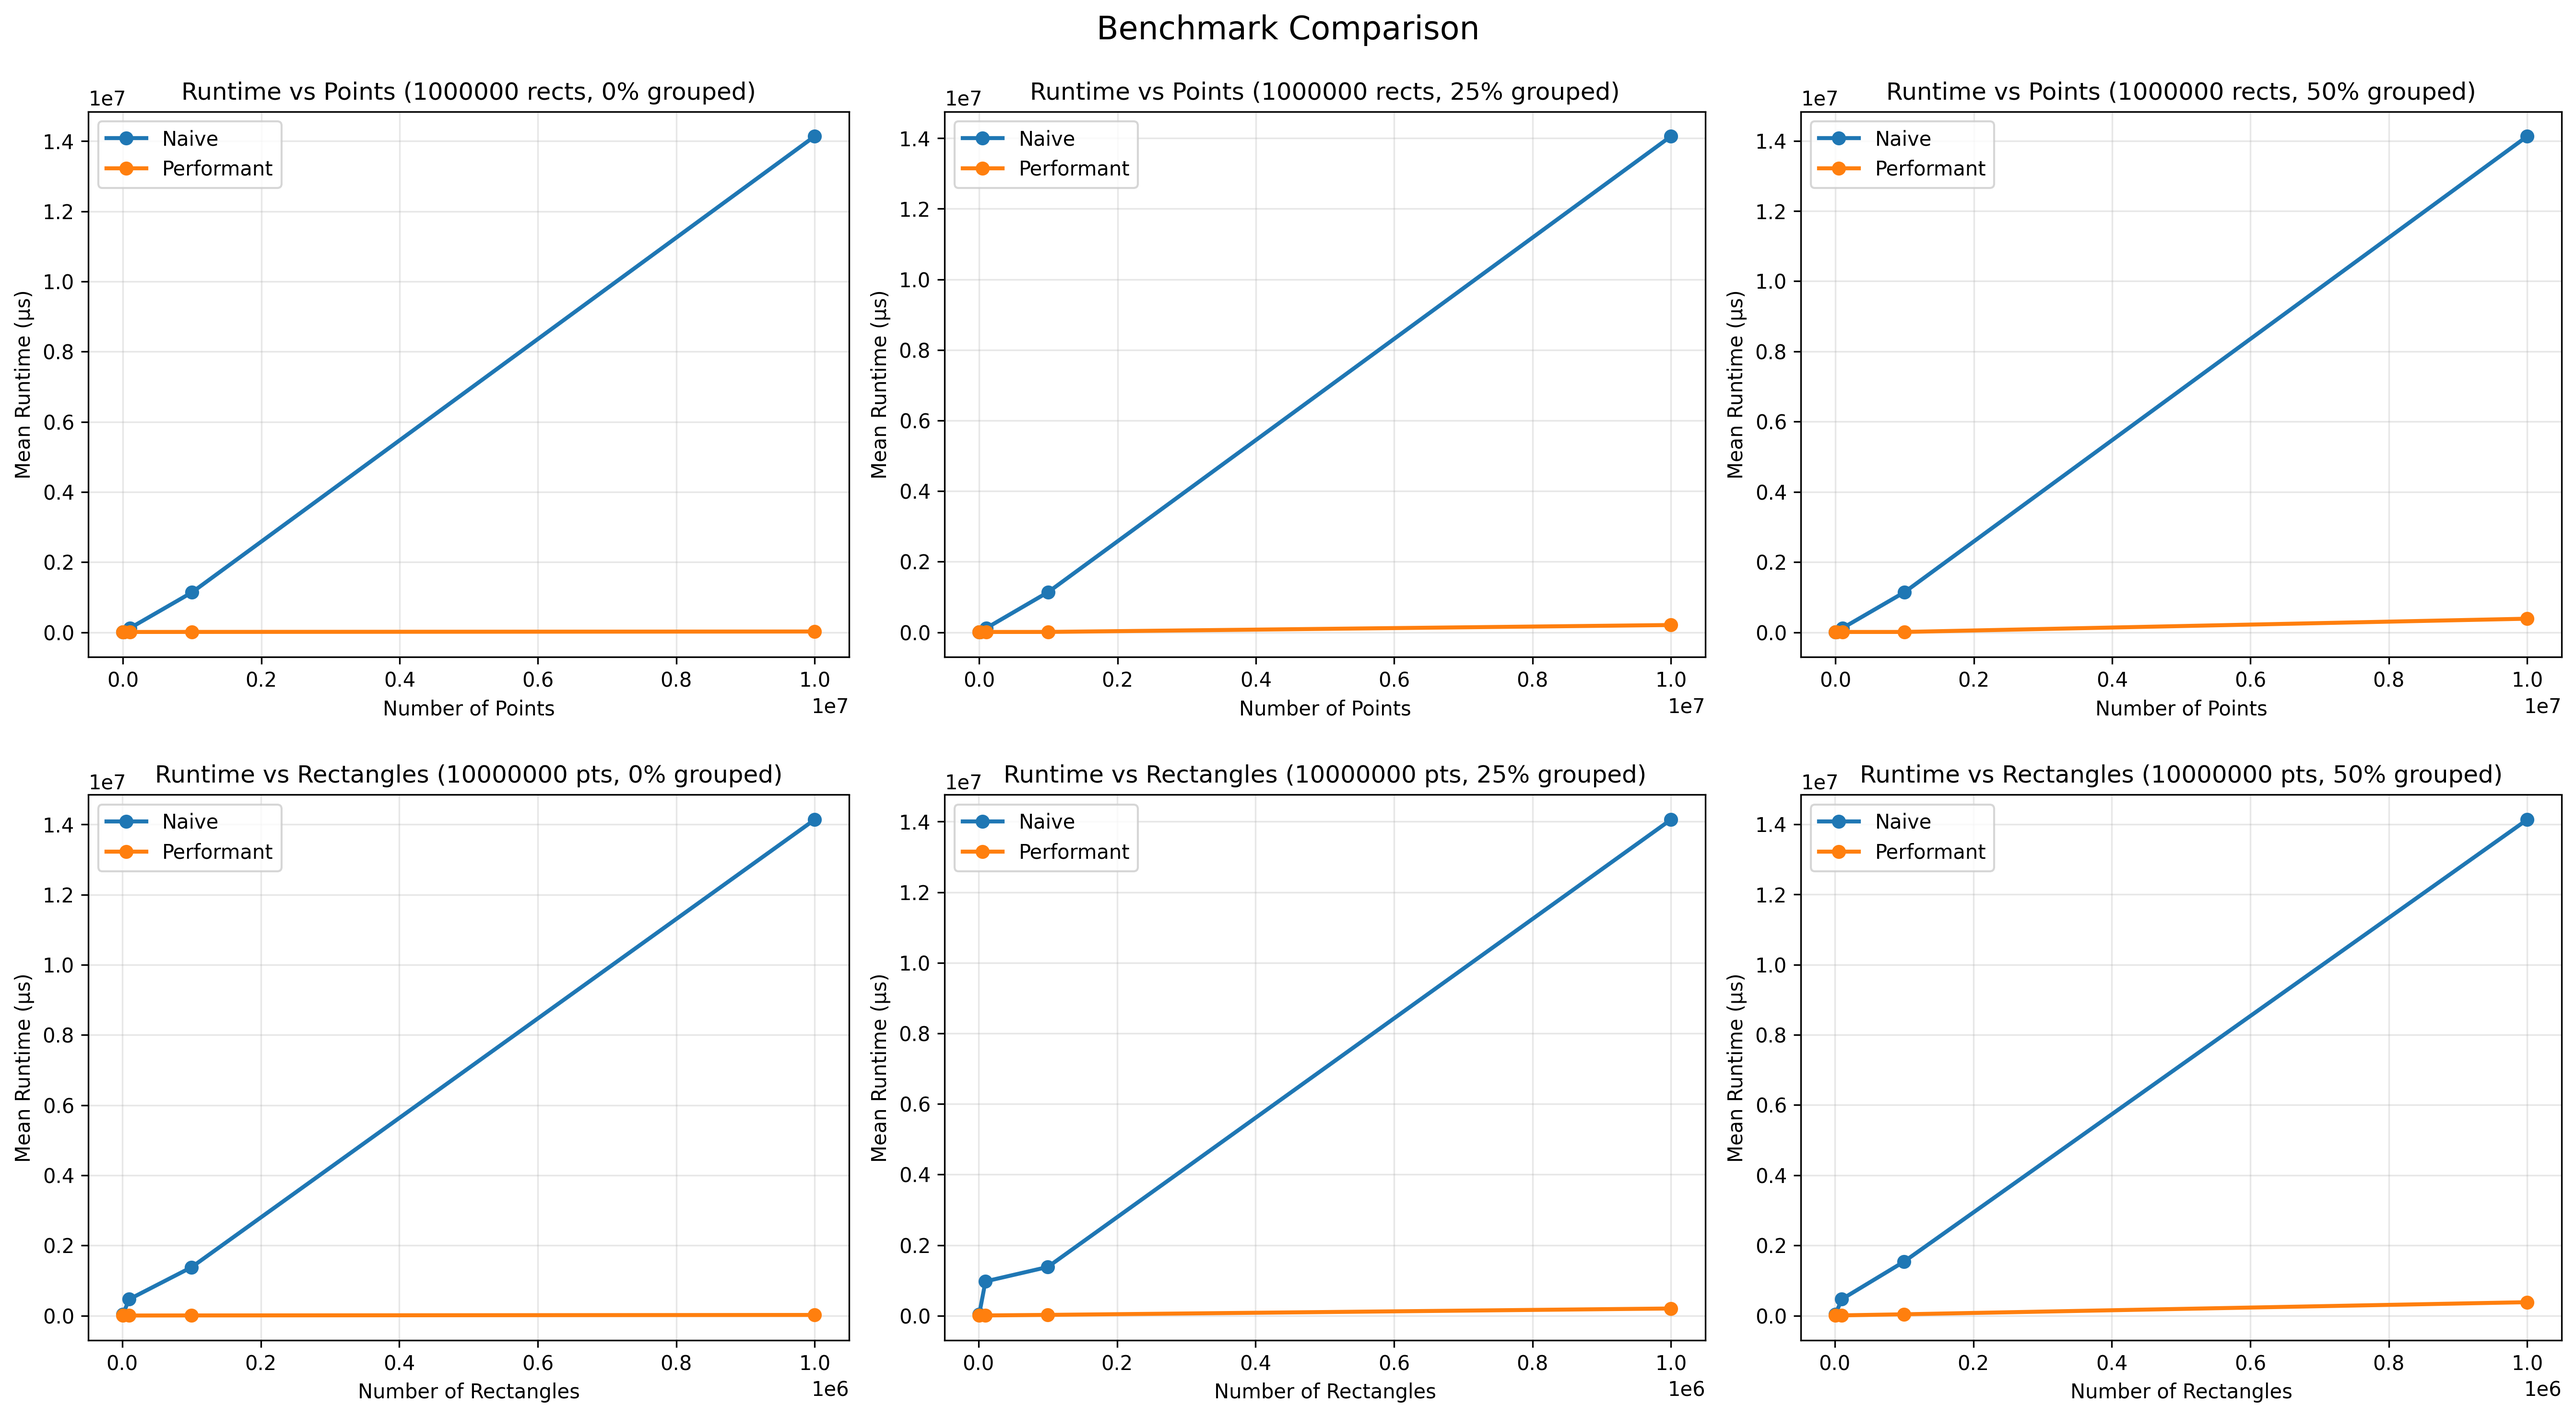
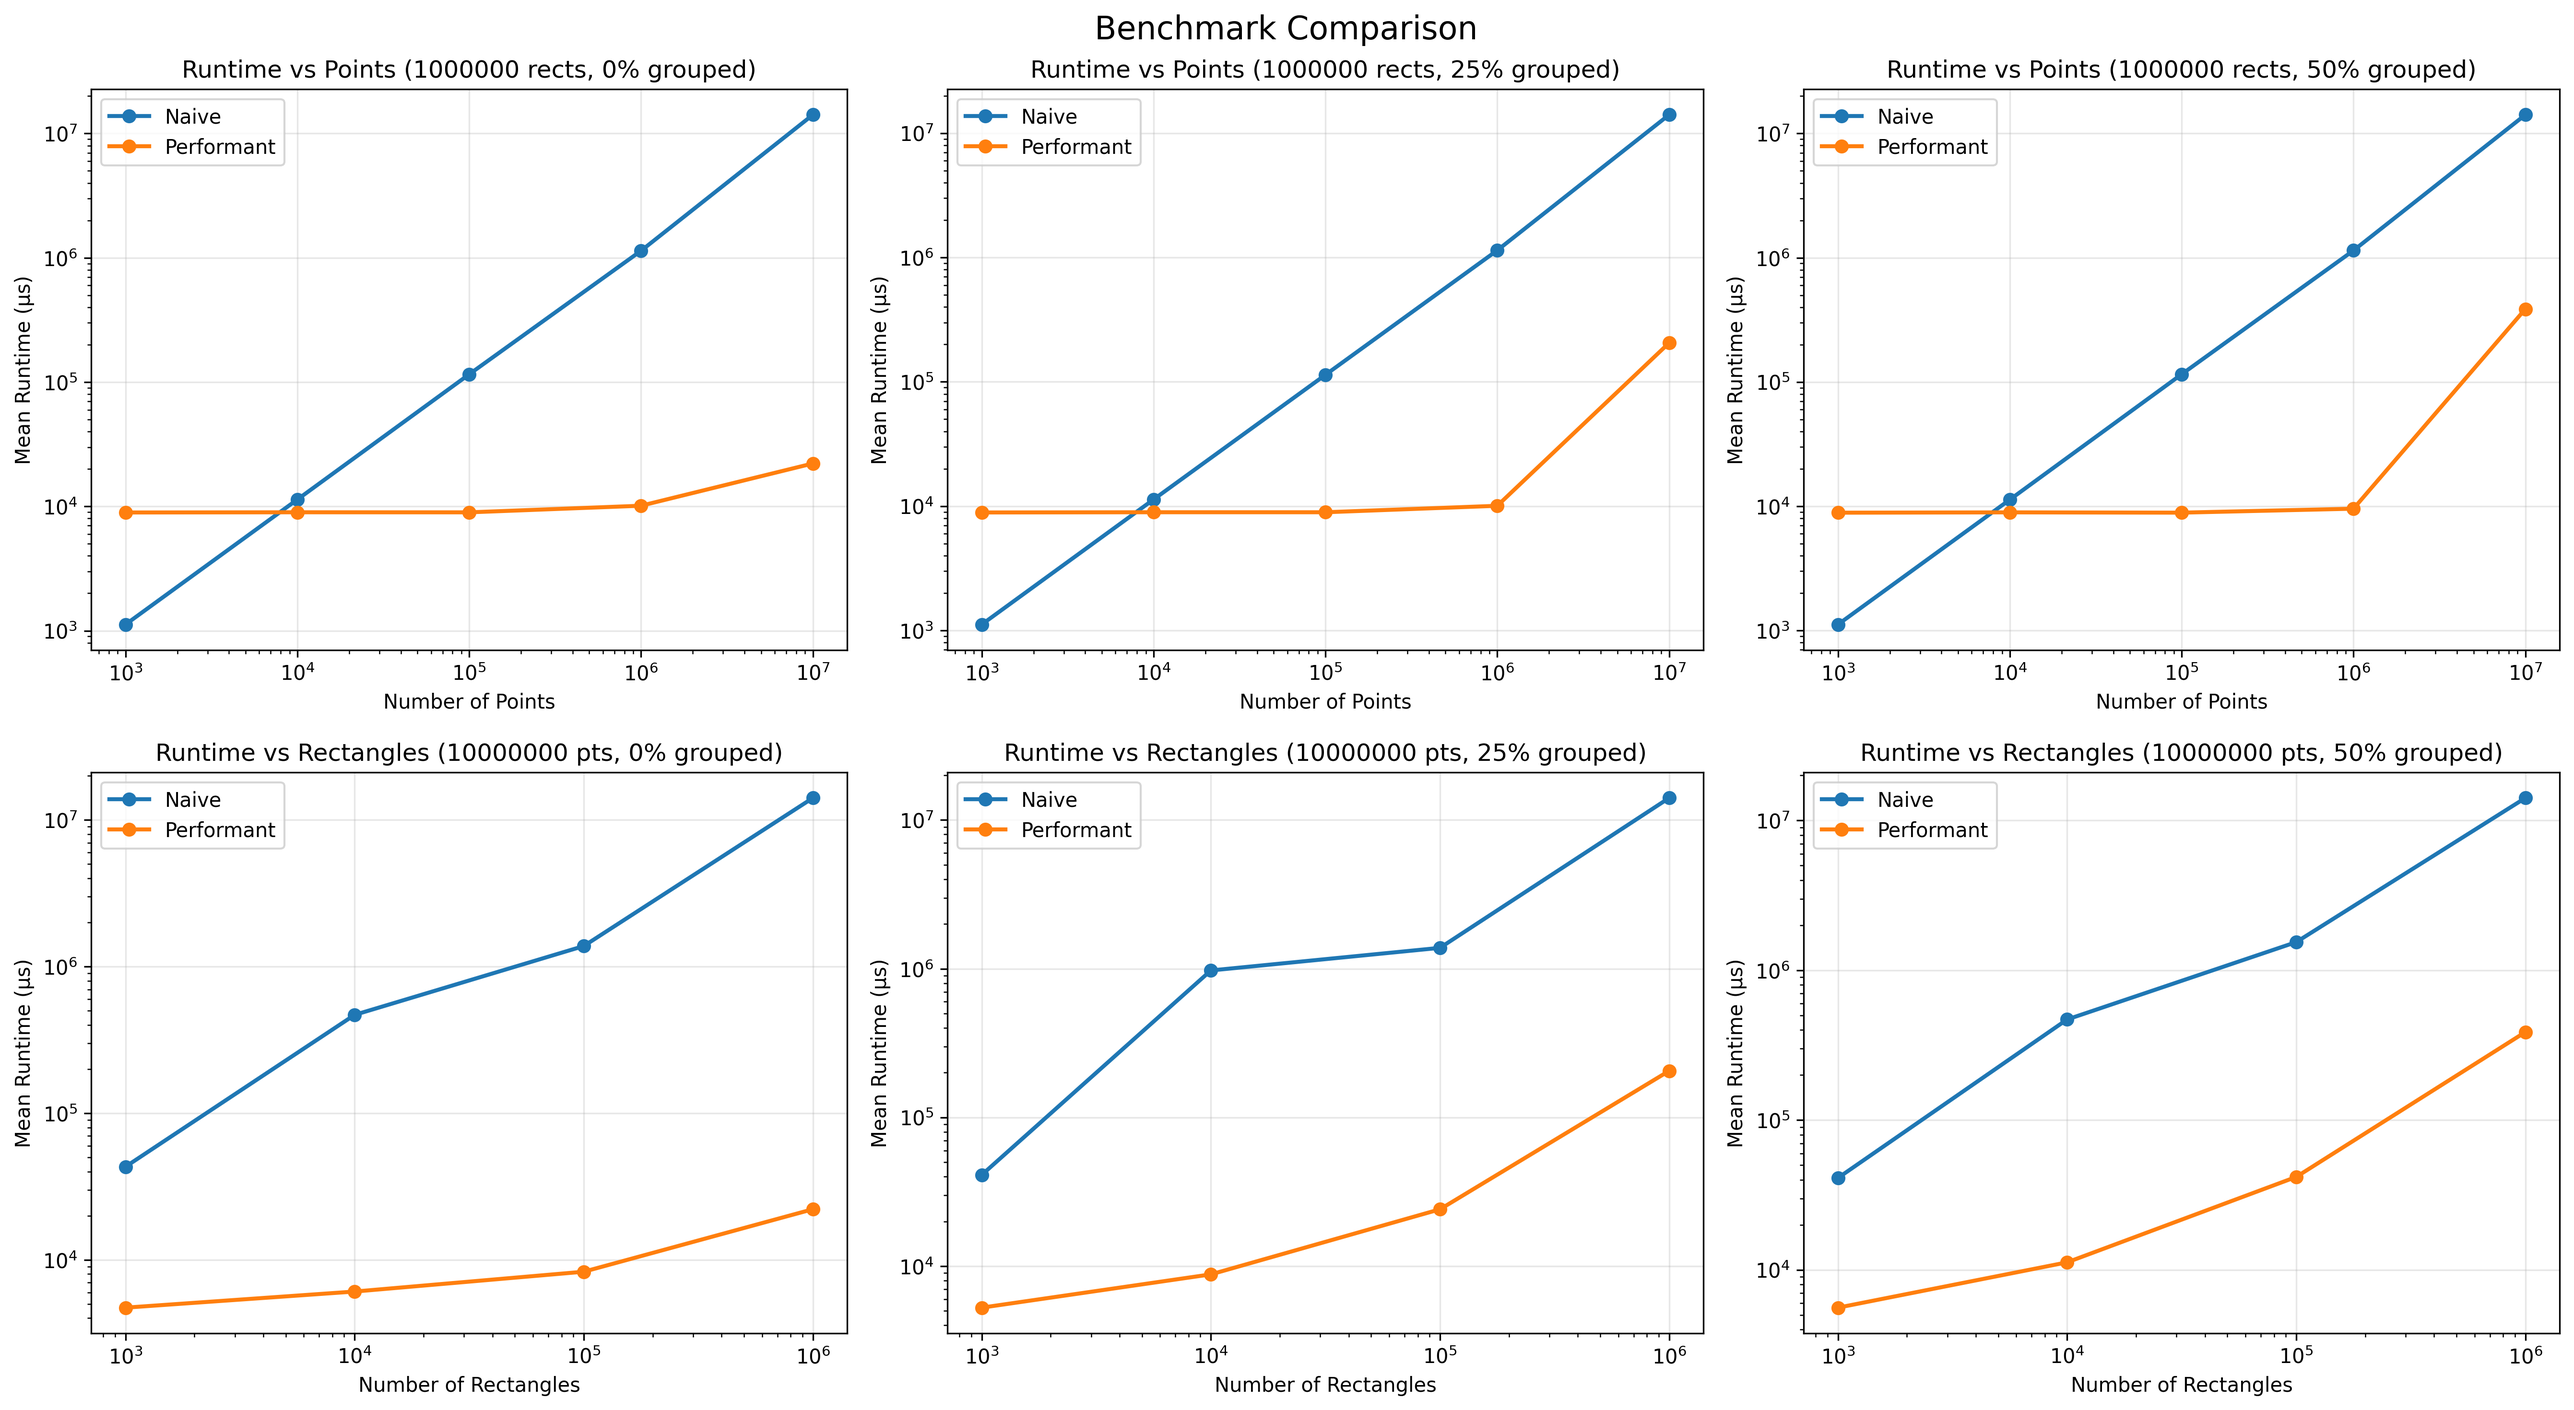
update to log plotting

diff --git a/plot.py b/plot.py
@@ -87,8 +87,8 @@ def plot_runtime_by_points(data_dict, title="Runtime vs Number of Points", label
         ax.set_title(f'Grouping: {percent*100:.0f}%')
         ax.set_xlabel('Number of Points')
         ax.set_ylabel('Mean Runtime (microseconds)')
-        # ax.set_xscale('log')
-        # ax.set_yscale('log')
+        ax.set_xscale('log')
+        ax.set_yscale('log')
         ax.grid(True, alpha=0.3)
         
         # Get unique rectangle counts
@@ -134,8 +134,8 @@ def plot_runtime_by_rectangles(data_dict, title="Runtime vs Number of Rectangles
         ax.set_title(f'Grouping: {percent*100:.0f}%')
         ax.set_xlabel('Number of Rectangles')
         ax.set_ylabel('Mean Runtime (microseconds)')
-        # ax.set_xscale('log')
-        # ax.set_yscale('log')
+        ax.set_xscale('log')
+        ax.set_yscale('log')
         ax.grid(True, alpha=0.3)
         
         # Get unique point counts
@@ -175,8 +175,8 @@ def plot_comparison(data_dicts, labels, title="Runtime Comparison"):
         ax.set_title(f'Runtime vs Points (1000000 rects, {percent*100:.0f}% grouped)')
         ax.set_xlabel('Number of Points')
         ax.set_ylabel('Mean Runtime (μs)')
-        # ax.set_xscale('log')
-        # ax.set_yscale('log')
+        ax.set_xscale('log')
+        ax.set_yscale('log')
         ax.grid(True, alpha=0.3)
         
         for data_dict, label in zip(data_dicts, labels):
@@ -199,8 +199,8 @@ def plot_comparison(data_dicts, labels, title="Runtime Comparison"):
         ax.set_title(f'Runtime vs Rectangles (10000000 pts, {percent*100:.0f}% grouped)')
         ax.set_xlabel('Number of Rectangles')
         ax.set_ylabel('Mean Runtime (μs)')
-        # ax.set_xscale('log')
-        # ax.set_yscale('log')
+        ax.set_xscale('log')
+        ax.set_yscale('log')
         ax.grid(True, alpha=0.3)
         
         for data_dict, label in zip(data_dicts, labels):
